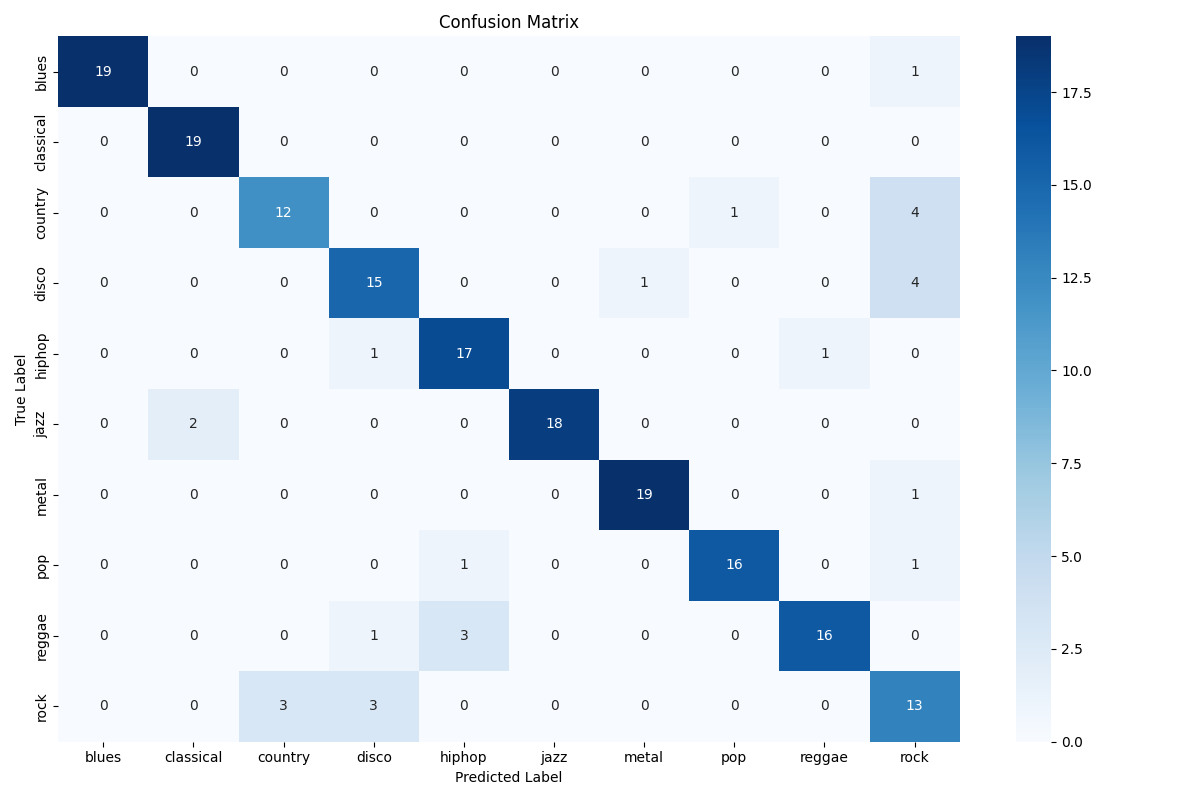
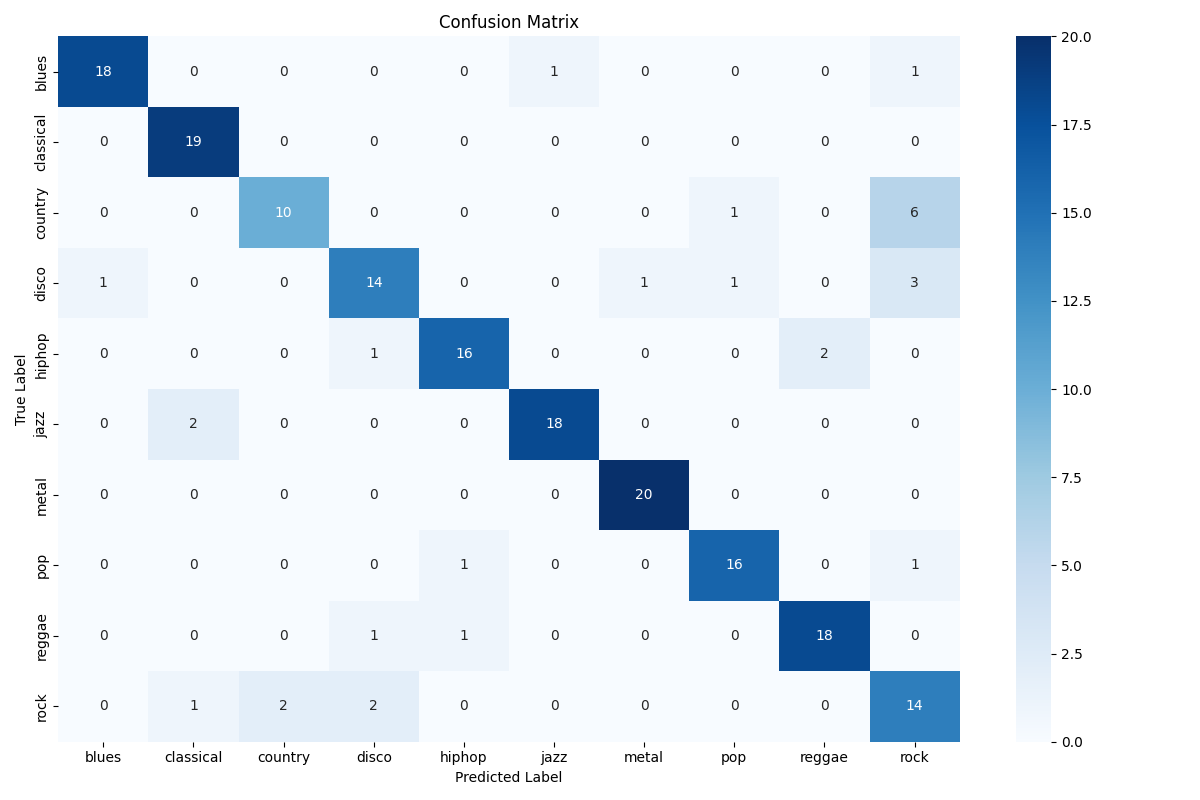
Refactor MultiHeadSelfAttention layer and update classifier parameters: modified attention layer to accept additional kwargs and added get_config method for serialization. Increased embed_dim and num_heads in classifier.py for improved model performance. Adjusted image width in train.py for better i
85% test accuracy

diff --git a/model/julien-hovan/test.py b/model/julien-hovan/test.py
@@ -1,0 +1,130 @@
+import tensorflow as tf
+import numpy as np
+from sklearn.metrics import confusion_matrix, classification_report
+import seaborn as sns
+import matplotlib.pyplot as plt
+import os
+from attention import MultiHeadSelfAttention
+from data_generator import TimeSegmentedSpectrogramGenerator
+
+# Constants
+BATCH_SIZE = 32
+DATA_DIR = "Data/mel_spectrograms_images"  # Updated data directory
+NUM_SEGMENTS = 7  # Number of segments expected by the model
+IMG_HEIGHT = 128
+IMG_WIDTH = 172
+
+def load_data_from_npy(data_dir, img_size, num_segments):
+    """
+    Loads data from .npy files, creates labels, segments the spectrograms, and prepares the dataset.
+
+    Args:
+        data_dir: Path to the directory containing the class folders with .npy files.
+        img_size: Size to resize the images to.
+        num_segments: Number of segments to divide each spectrogram into.
+
+    Returns:
+        X: Array of segmented image data.
+        y: Array of corresponding labels.
+    """
+    X = []
+    y = []
+    class_names = sorted(os.listdir(data_dir))
+
+    for class_index, class_name in enumerate(class_names):
+        class_dir = os.path.join(data_dir, class_name)
+        for filename in os.listdir(class_dir):
+            if filename.endswith(".npy"):
+                filepath = os.path.join(class_dir, filename)
+                try:
+                    spectrogram = np.load(filepath)
+
+                    # Segment the spectrogram
+                    total_frames = spectrogram.shape[0]
+                    frames_per_segment = total_frames // num_segments
+                    segments = []
+                    for i in range(num_segments):
+                        start = i * frames_per_segment
+                        end = (i + 1) * frames_per_segment
+                        segment = spectrogram[start:end]
+                        # Resize and remove extra dimension
+                        segment = tf.image.resize(segment, (img_size, img_size)).numpy()
+                        segments.append(segment)
+
+                    X.append(segments)
+                    y.append(class_index)
+                except Exception as e:
+                    print(f"Error processing {filepath}: {e}")
+
+    return np.array(X), np.array(y)
+
+def load_and_evaluate_model(model_path, data_dir, img_height, img_width, batch_size):
+    """
+    Loads a Keras model, evaluates it on a test dataset, and generates a confusion matrix and classification report.
+
+    Args:
+        model_path: Path to the saved Keras model.
+        data_dir: Path to the directory containing the test dataset.
+        img_size: Size of the images (assuming square images).
+        batch_size: Batch size for evaluation.
+    """
+
+    # Load the model with custom_objects
+    model = tf.keras.models.load_model(
+        model_path,
+        custom_objects={"MultiHeadSelfAttention": MultiHeadSelfAttention}
+    )
+
+    # Load data using the generator
+    test_paths = []
+    test_labels = {}
+    class_names = sorted(os.listdir(data_dir))
+    for class_index, class_name in enumerate(class_names):
+        class_dir = os.path.join(data_dir, class_name)
+        for filename in os.listdir(class_dir):
+            if filename.endswith(".npy"):
+                filepath = os.path.join(class_dir, filename)
+                test_paths.append(filepath)
+                test_labels[filepath] = class_index
+
+    test_generator = TimeSegmentedSpectrogramGenerator(
+        test_paths,
+        test_labels,
+        batch_size=batch_size,
+        dim=(img_height, img_width),
+        n_channels=1,
+        n_classes=len(class_names),
+        shuffle=False,
+        augment=False  # Typically, no augmentation during evaluation
+    )
+
+    # Evaluate the model using the generator
+    test_loss, test_accuracy = model.evaluate(test_generator)
+    print(f"Test accuracy: {test_accuracy:.4f}")
+
+    # Generate predictions using the generator
+    y_pred = []
+    y_true = []
+    for x, y in test_generator:
+        pred = model.predict(x)
+        y_pred.extend(np.argmax(pred, axis=1))
+        y_true.extend(np.argmax(y, axis=1))  # Decode one-hot encoded labels
+
+    # Create confusion matrix
+    cm = confusion_matrix(y_true, y_pred)
+    class_names = sorted(os.listdir(data_dir))  # Get class names for labels
+    plt.figure(figsize=(8, 6))
+    sns.heatmap(cm, annot=True, fmt='d', cmap='Blues', 
+                xticklabels=class_names,
+                yticklabels=class_names)
+    plt.xlabel('Predicted')
+    plt.ylabel('True')
+    plt.title('Confusion Matrix')
+    plt.show()
+
+    # Generate classification report
+    print(classification_report(y_true, y_pred, target_names=class_names))
+
+if __name__ == "__main__":
+    MODEL_PATH = 'model/julien-hovan/saved_models/final_model.keras'
+    load_and_evaluate_model(MODEL_PATH, DATA_DIR, IMG_HEIGHT, IMG_WIDTH, BATCH_SIZE)

diff --git a/model/julien-hovan/attention.py b/model/julien-hovan/attention.py
@@ -2,8 +2,8 @@ import tensorflow as tf
 from tensorflow.keras import layers
 
 class MultiHeadSelfAttention(layers.Layer):
-    def __init__(self, embed_dim, num_heads):
-        super(MultiHeadSelfAttention, self).__init__()
+    def __init__(self, embed_dim, num_heads, **kwargs):
+        super(MultiHeadSelfAttention, self).__init__(**kwargs)
         self.embed_dim = embed_dim
         self.num_heads = num_heads
         self.head_dim = embed_dim // num_heads
@@ -22,3 +22,11 @@ class MultiHeadSelfAttention(layers.Layer):
             query=inputs, value=inputs, key=inputs
         )
         return self.layernorm(inputs + attention_output) 
+    
+    def get_config(self):
+        config = super().get_config()
+        config.update({
+            "embed_dim": self.embed_dim,
+            "num_heads": self.num_heads,
+        })
+        return config

diff --git a/model/julien-hovan/classifier.py b/model/julien-hovan/classifier.py
@@ -106,7 +106,7 @@ def create_time_aware_classifier(input_shape, num_classes, num_segments):
     processed_segments = tf.keras.layers.TimeDistributed(segment_model)(main_input)
     
     # Add attention mechanism using MultiHeadSelfAttention from attention.py
-    attention_layer = MultiHeadSelfAttention(embed_dim=256, num_heads=8)
+    attention_layer = MultiHeadSelfAttention(embed_dim=512, num_heads=16)
     attention_output = attention_layer(processed_segments)
     
     # Global temporal pooling

diff --git a/model/julien-hovan/train.py b/model/julien-hovan/train.py
@@ -122,7 +122,7 @@ def main():
     BATCH_SIZE = 16  # Might need to reduce batch size due to larger data
     EPOCHS = 100
     IMG_HEIGHT = 128
-    IMG_WIDTH = 128
+    IMG_WIDTH = 172
     CHANNELS = 1
     NUM_SEGMENTS = 7 # For 30-second audio split into 4-second segments
     
